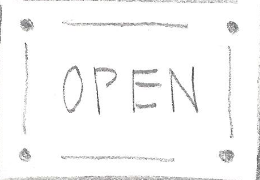
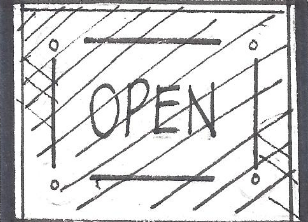
Added new assets for human witness memory and changed chat to fit with new style.

diff --git a/src/main/java/nz/ac/auckland/se206/controllers/HumanWitnessController.java b/src/main/java/nz/ac/auckland/se206/controllers/HumanWitnessController.java
@@ -1,5 +1,7 @@
 package nz.ac.auckland.se206.controllers;
 
+import javafx.animation.ParallelTransition;
+import javafx.animation.TranslateTransition;
 import javafx.concurrent.Task;
 import javafx.event.ActionEvent;
 import javafx.fxml.FXML;
@@ -32,6 +34,13 @@ public class HumanWitnessController {
   @FXML private TextField textField;
   @FXML private ImageView memoryscape;
   @FXML private Rectangle timerOutline;
+
+  // chat toggle
+  @FXML private Rectangle toggleChat;
+  @FXML private Rectangle chatCover;
+  // if pulled = true, that means chat cover is pulled out
+  // if pulled = false, that means chat cover is not pulled out
+  private static boolean pulled = false;
 
   // memory elements
   @FXML private ImageView boltOne;
@@ -87,6 +96,40 @@ public class HumanWitnessController {
     Button button = (Button) event.getSource();
     Scene sceneButtonIsIn = button.getScene();
     sceneButtonIsIn.setRoot(SceneManager.getUiRoot(AppUi.MAINMENU));
+  }
+
+  @FXML
+  private void onToggle() {
+    int move = 0; // variable to store how far elements will be moved
+    if (pulled) {
+      move = 420;
+    } else {
+      move = -420;
+    }
+    pulled = !pulled; // switch state for pulled
+
+    TranslateTransition smallRectTrans = new TranslateTransition();
+    TranslateTransition largeRectTrans = new TranslateTransition();
+    TranslateTransition chatAreaTrans = new TranslateTransition();
+    TranslateTransition textFieldTrans = new TranslateTransition();
+    TranslateTransition sendButtonTrans = new TranslateTransition();
+    smallRectTrans.setNode(toggleChat);
+    smallRectTrans.setByX(move); // distance node is moved
+    largeRectTrans.setNode(chatCover);
+    largeRectTrans.setByX(move);
+    chatAreaTrans.setNode(chatTextArea);
+    chatAreaTrans.setByX(move);
+    textFieldTrans.setNode(textField);
+    textFieldTrans.setByX(move);
+    sendButtonTrans.setNode(sendButton);
+    sendButtonTrans.setByX(move);
+
+    ParallelTransition parallel =
+        new ParallelTransition(
+            smallRectTrans, largeRectTrans, chatAreaTrans, textFieldTrans, sendButtonTrans);
+    parallel.play();
+
+    // add all transitions to parallel transitions
   }
 
   public void initialize() throws ApiProxyException {
